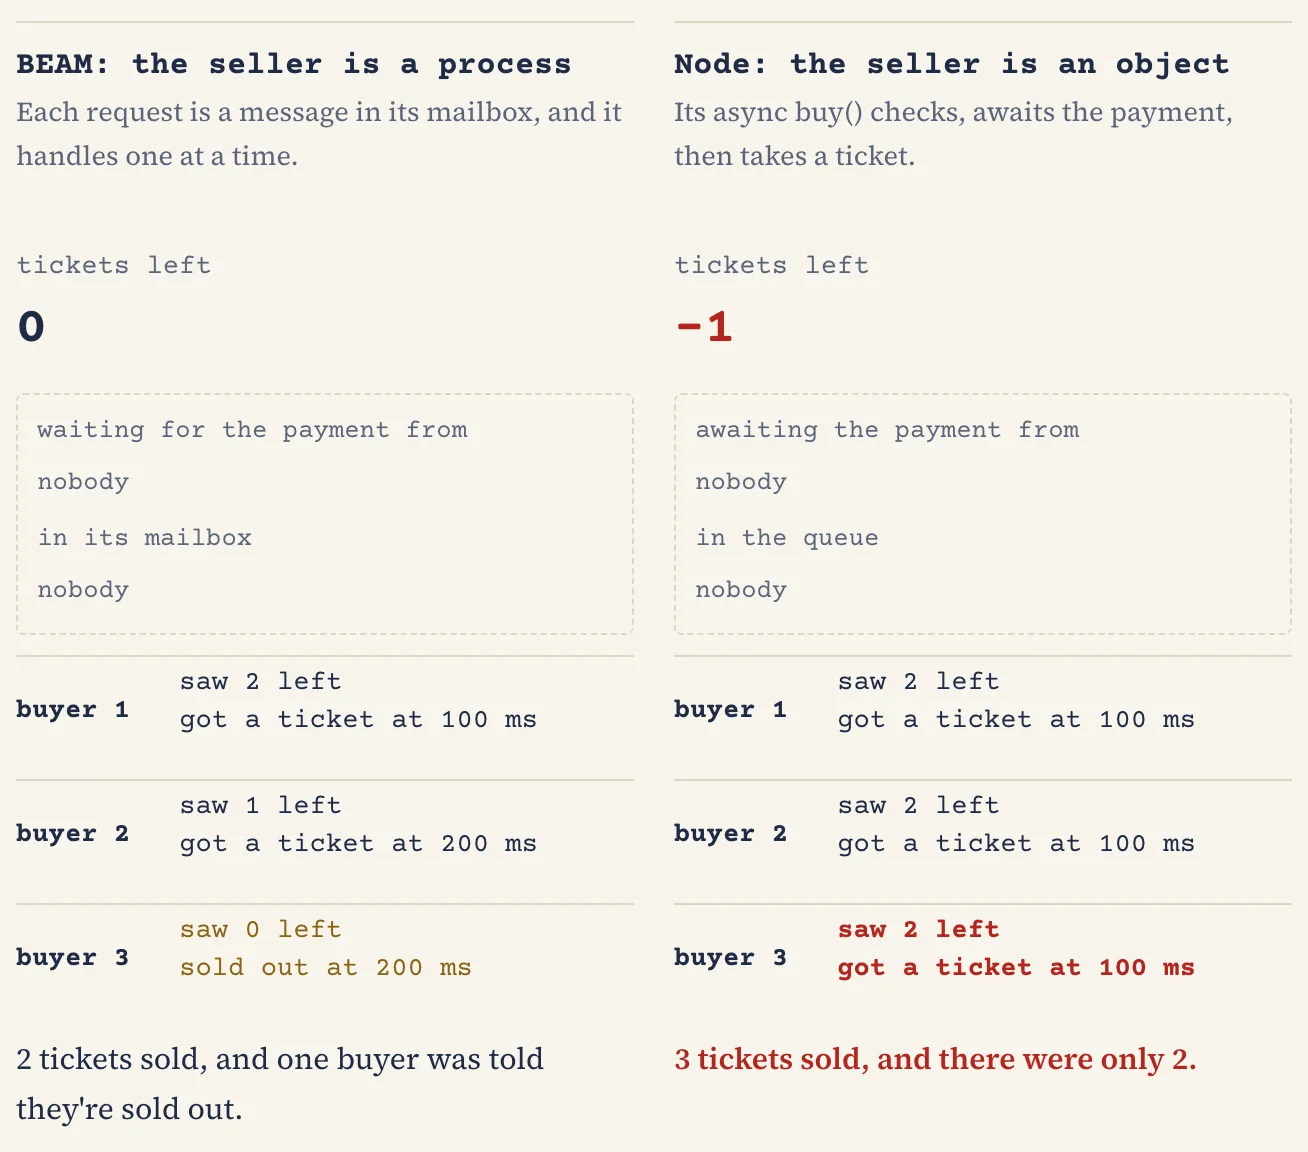
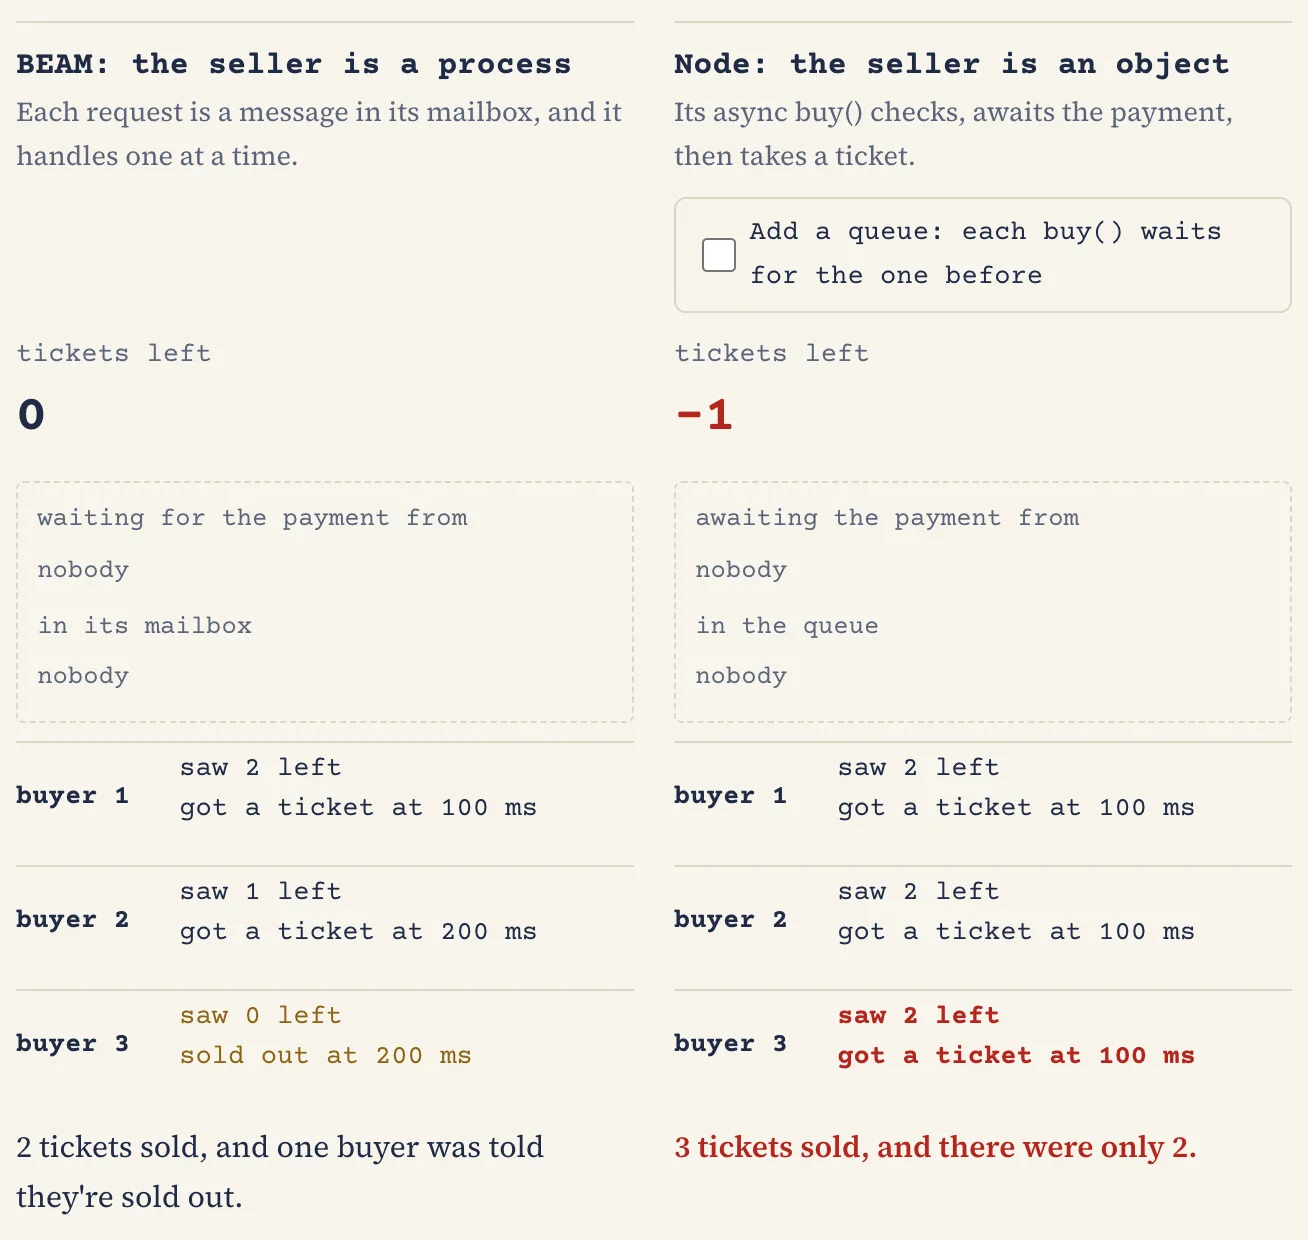
Page 4 edits

diff --git a/leaflets/beam-at-work/page-4/ticket-race.js b/leaflets/beam-at-work/page-4/ticket-race.js
@@ -8,8 +8,8 @@
 // the payment's reply matches, and only then looks at the next request. In
 // Node the seller is an object with an async buy(): each call checks what's
 // left, then awaits the payment, which hands the thread to the next buyer,
-// so all three check before any of them takes a ticket. "Node with a queue"
-// is wait-inside-queue.mjs, where each buy() waits for the one before it,
+// so all three check before any of them takes a ticket. The Node column's
+// "Add a queue" setting is wait-inside-queue.mjs, where each buy() waits for the one before it,
 // and matches the BEAM exactly.
 //
 // Each buyer shows what it saw when its request was checked, which is where
@@ -76,11 +76,8 @@ document.head.insertAdjacentHTML("beforeend", `<style>
     border-color: var(--brass);
     font-weight: 700;
   }
-  ticket-race button[aria-pressed=true] {
-    border-color: var(--brass);
-    background: var(--tint);
-  }
-  ticket-race button:focus-visible {
+  ticket-race button:focus-visible,
+  ticket-race label.setting:has(:focus-visible) {
     outline: 2px solid var(--link);
     outline-offset: 2px;
   }
@@ -128,20 +125,37 @@ document.head.insertAdjacentHTML("beforeend", `<style>
     font-size: 1rem;
     font-weight: 700;
   }
-  /* Every note a side can have, stacked in one spot sized to the longest,
-     so switching the queue on and off never moves anything */
   ticket-race .side-note {
-    display: grid;
     margin: .15rem 0 0;
     font-size: .85rem;
     color: var(--muted);
   }
-  ticket-race .side-note > span {
-    grid-area: 1 / 1;
-    visibility: hidden;
+  /* A setting of this side's seller, not an action: it lives in the column */
+  ticket-race label.setting {
+    display: inline-flex;
+    align-items: center;
+    gap: .4rem;
+    min-height: 44px;
+    margin-top: .5rem;
+    padding: .35rem .8rem;
+    font-family: var(--type);
+    font-size: .85rem;
+    color: var(--ink);
+    background: var(--bg);
+    border: 1.5px solid var(--line);
+    border-radius: var(--radius);
+    cursor: pointer;
   }
-  ticket-race .side-note > span.on {
-    visibility: visible;
+  ticket-race label.setting input {
+    flex: none;
+    width: 1.1rem;
+    height: 1.1rem;
+    margin: 0;
+    accent-color: var(--brass);
+  }
+  ticket-race label.setting:has(:checked) {
+    border-color: var(--brass);
+    background: var(--tint);
   }
   /* The headline: how many tickets are left */
   ticket-race .left {
@@ -306,21 +320,19 @@ function sell(kind) {
   return buyers;
 }
 
-// Each side's notes: the first without the queue, the second with it
+// Each side's seller. Only Node's has a setting: the queue.
 const SIDES = {
   beam: {
     title: "BEAM: the seller is a process",
-    notes: ["Each request is a message in its mailbox, and it handles one at a time."],
+    note: "Each request is a message in its mailbox, and it handles one at a time.",
     paying: "waiting for the payment from",
     waiting: "in its mailbox",
     kind: () => "process",
   },
   node: {
     title: "Node: the seller is an object",
-    notes: [
-      "Its async buy() checks, awaits the payment, then takes a ticket.",
-      "Its async buy() checks, awaits the payment, then takes a ticket. A queue makes each buy() wait for the one before.",
-    ],
+    note: "Its async buy() checks, awaits the payment, then takes a ticket.",
+    setting: "Add a queue: each buy() waits for the one before",
     paying: "awaiting the payment from",
     waiting: "in the queue",
     kind: (queued) => (queued ? "queue" : "await"),
@@ -339,7 +351,10 @@ customElements.define("ticket-race", class extends HTMLElement {
     const side = (key) => `
       <section class="side" data-side="${key}" aria-labelledby="${id}-${key}">
         <h3 class="side-title" id="${id}-${key}">${SIDES[key].title}</h3>
-        <p class="side-note">${SIDES[key].notes.map((n) => `<span>${n}</span>`).join("")}</p>
+        <div class="about">
+          <p class="side-note">${SIDES[key].note}</p>
+          ${SIDES[key].setting ? `<label class="setting"><input type="checkbox" class="queue"> ${SIDES[key].setting}</label>` : ""}
+        </div>
         <p class="left"><span>tickets left</span><output></output></p>
         <div class="seller">
           <div class="paying-line"><span>${SIDES[key].paying}</span><span class="list"></span></div>
@@ -357,7 +372,6 @@ customElements.define("ticket-race", class extends HTMLElement {
       <p class="intro-text">Three people try to buy the last two tickets at the same moment, and each sale has to wait 100 ms for a card payment before it takes a ticket. Here's the same seller in the BEAM and in Node.</p>
       <div class="controls">
         <button type="button" class="go">Three buyers at once</button>
-        <button type="button" class="queue" aria-pressed="false">Node with a queue</button>
         <span class="clock">time <output></output></span>
       </div>
       <p class="note">A simulation of <a href="wait-inside.exs">wait-inside.exs</a> and <a href="wait-inside.mjs">wait-inside.mjs</a>, slowed down: a 100 ms payment takes a second and a half here.</p>
@@ -369,9 +383,8 @@ customElements.define("ticket-race", class extends HTMLElement {
     this.visible = false;
 
     this.$(".go").addEventListener("click", () => this.start());
-    this.$(".queue").addEventListener("click", (e) => {
-      this.queued = !this.queued;
-      e.currentTarget.setAttribute("aria-pressed", String(this.queued));
+    this.$(".queue").addEventListener("change", (e) => {
+      this.queued = e.currentTarget.checked;
       this.stop();
       this.t = null;
       this.plan();
@@ -438,13 +451,6 @@ customElements.define("ticket-race", class extends HTMLElement {
     for (const [key, s] of Object.entries(SIDES)) {
       const el = this.$(`[data-side="${key}"]`);
       const buyers = this.sales[key];
-      const notes = el.querySelectorAll(".side-note > span");
-      notes.forEach((n, i) => {
-        const on = i === Math.min(notes.length - 1, this.queued ? 1 : 0);
-        n.classList.toggle("on", on);
-        n.setAttribute("aria-hidden", String(!on));
-      });
-
       const sold = t === null ? 0 : buyers.filter((b) => b.pays && b.done <= t).length;
       const left = TICKETS - sold;
       el.querySelector(".left").classList.toggle("oversold", left < 0);

diff --git a/leaflets/beam-at-work/page-4/index.md b/leaflets/beam-at-work/page-4/index.md
@@ -16,7 +16,7 @@ Pages 2 and 3 kept coming back to one rule: no process can get at another's memo
 
 <script type="module" src="ticket-race.js"></script>
 
-In Node all three buyers got a ticket, and there were only two. Look at what each one saw: all three checked while two were still left, because none of the payments had come back yet. In the BEAM each buyer saw what the sale before had left: two, then one, then none. Press **Node with a queue** and Node sells them one at a time too. The rest of this page is about why the BEAM does that without being asked, and what it costs.
+In Node all three buyers got a ticket, and there were only two. Look at what each one saw: all three checked while two were still left, because none of the payments had come back yet. In the BEAM each buyer saw what the sale before had left: two, then one, then none. Tick **Add a queue** in the Node column and Node sells them one at a time too. The rest of this page is about why the BEAM does that without an explicit design, and what it costs.
 
 ## Three buyers, two tickets
 
